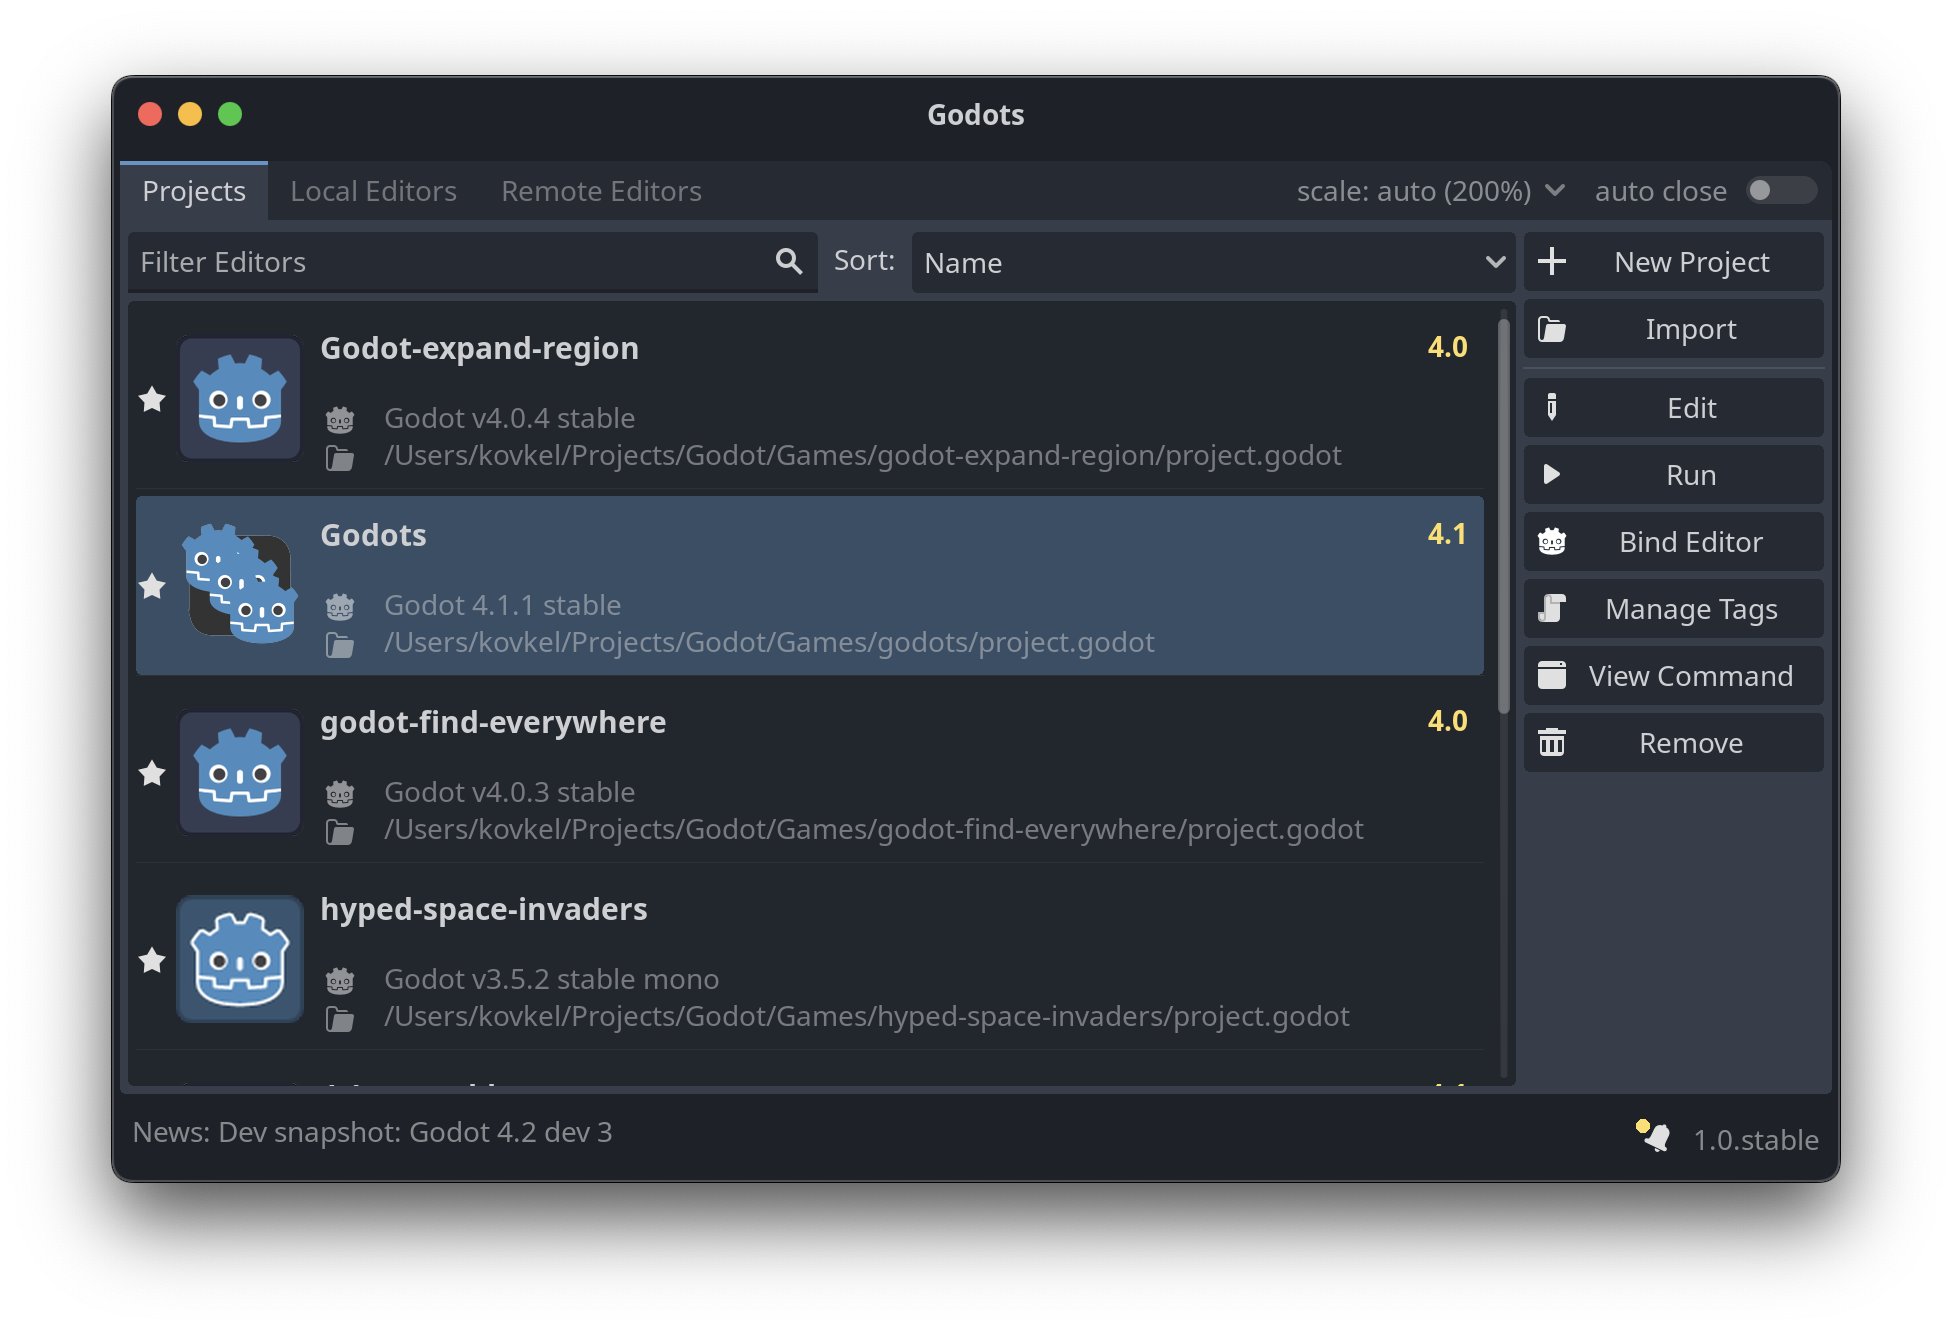
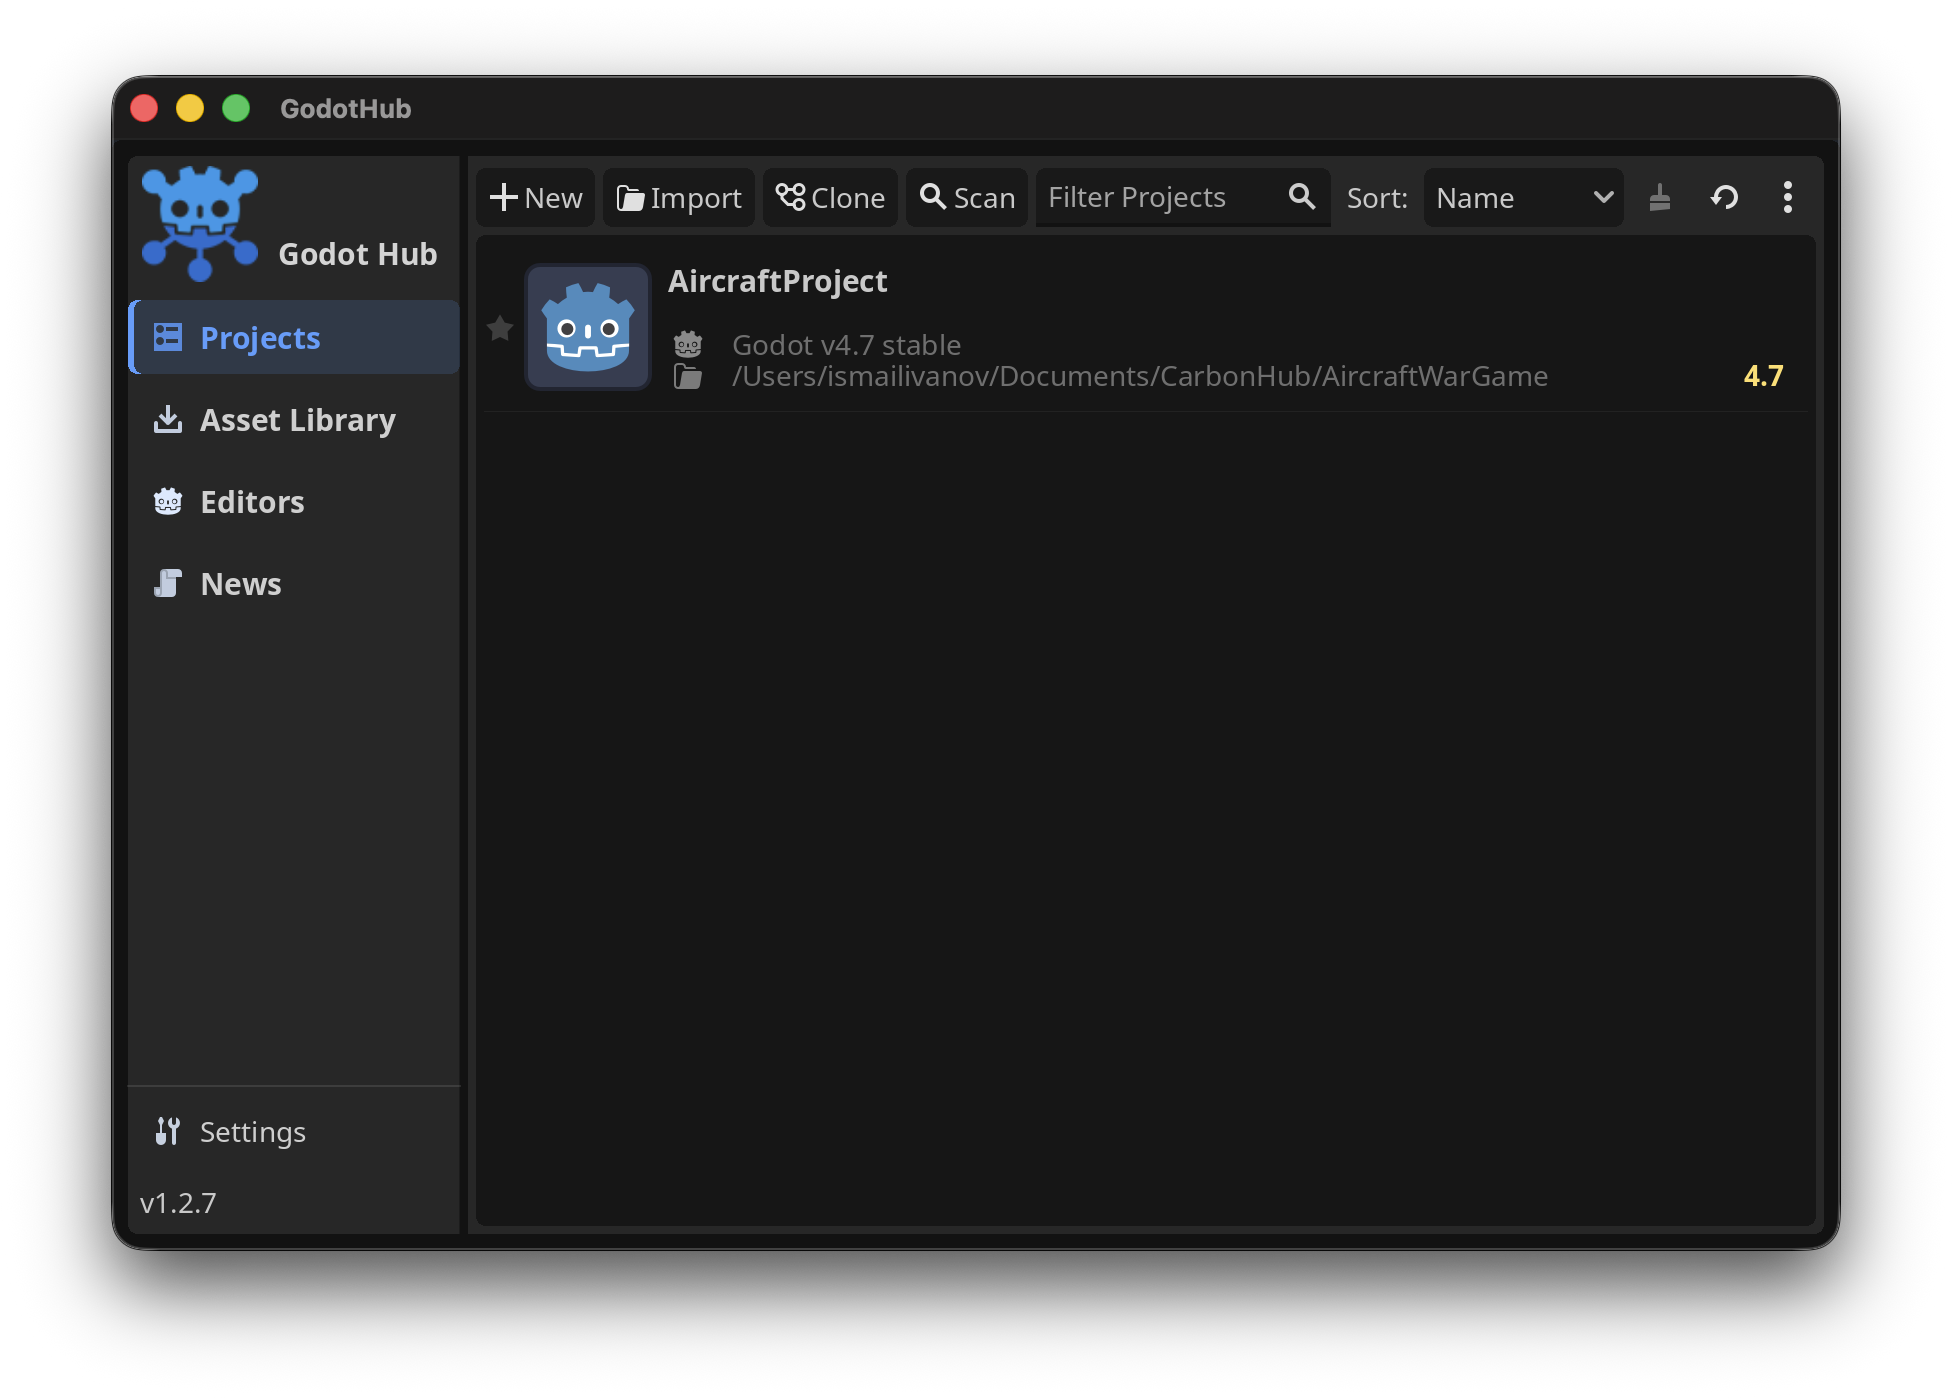
Modernize the README (#24)
* Modernize the README

* Add project support link

diff --git a/README.md b/README.md
@@ -1,98 +1,107 @@
-# Godot Hub
-
-Manage Godot Engine versions and projects from one desktop app. Download editors, organize projects, and switch versions fast.
-
-This fork builds on [MakovWait/godots](https://github.com/MakovWait/godots) by Maxim Kovkel. Maintained by [ismailivanov](https://github.com/ismailivanov).
-
 <p align="center">
-<img width="1202" height="735" alt="image" src="https://github.com/user-attachments/assets/4301b177-89d3-45c0-8488-45c1000f46fb" />
+  <img src="assets/logo/logo.svg" width="112" alt="Godot Hub logo">
 </p>
 
-## Installation
+<h1 align="center">Godot Hub</h1>
 
-Download from [Latest Releases](https://github.com/ismailivanov/godot-hub/releases). Pick your platform:
+<p align="center">
+  Your Godot editors, projects, and community news — together in one place.
+</p>
+
+<p align="center">
+  <a href="https://github.com/ismailivanov/godot-hub/releases/latest"><img alt="Latest release" src="https://img.shields.io/github/v/release/ismailivanov/godot-hub?style=flat-square&color=478cbf"></a>
+  <img alt="Windows, macOS, and Linux" src="https://img.shields.io/badge/platform-Windows%20%7C%20macOS%20%7C%20Linux-478cbf?style=flat-square">
+  <a href="LICENSE"><img alt="MIT License" src="https://img.shields.io/badge/license-MIT-478cbf?style=flat-square"></a>
+</p>
+
+<p align="center">
+  <a href="https://github.com/ismailivanov/godot-hub/releases/latest"><strong>Download Godot Hub</strong></a>
+  &nbsp;&nbsp;
+  <a href="https://buymeacoffee.com/carbon06"><img alt="Support Godot Hub on Buy Me a Coffee" src="https://img.shields.io/badge/Support-Buy%20me%20a%20coffee-FFDD00?style=flat-square&logo=buymeacoffee&logoColor=000000"></a>
+</p>
+
+![Godot Hub project library](.github/assets/screenshot1.png)
+
+Godot Hub takes care of the repetitive parts of working with Godot. Keep multiple editor versions installed, match projects with the right editor, and catch up on Godot news without jumping between folders and browser tabs.
+
+## What you can do
+
+- Install stable, preview, and custom Godot editor builds side by side.
+- Import, organize, search, and launch all your projects from one library.
+- Keep each project connected to the Godot version it needs.
+- Browse the Asset Library and follow official Godot news.
+- Update Godot Hub directly from the app on Windows, macOS, and AppImage installs.
+- Use the desktop app or control it from the command line.
+
+## Get started
+
+Download the latest version from the [Releases page](https://github.com/ismailivanov/godot-hub/releases/latest), then follow the short guide for your platform.
 
 ### Windows
-1. Download `GodotHub-Windows.zip`.
-2. Extract and run the executable.
+
+Download `GodotHub-Windows.zip`, extract it, and open `GodotHub.exe`.
+
+### macOS
+
+Download `GodotHub-macOS.zip`, extract it, and move **GodotHub.app** into your **Applications** folder.
+
+Godot Hub is not code-signed yet. If macOS blocks it, run this once in Terminal:
+
+```sh
+sudo xattr -r -d com.apple.quarantine "/Applications/GodotHub.app"
+```
 
 ### Linux
 
-**AppImage (recommended portable download):**
-1. Download `GodotHub-x86_64.AppImage`.
-2. Make it executable: `chmod +x GodotHub-x86_64.AppImage`.
-3. Run it. Future updates replace and reopen the same AppImage automatically.
+For a portable install, download `GodotHub-x86_64.AppImage`, make it executable, and open it:
 
-**Manual install:**
-1. Download `GodotHub-Linux.zip`.
-2. Extract and run the binary.
-
-**Arch Linux (AUR):**
 ```sh
-yay -S godot-hub-bin
+chmod +x GodotHub-x86_64.AppImage
+./GodotHub-x86_64.AppImage
 ```
 
-### macOS
-1. Download `GodotHub-macOS.zip` and extract.
-2. Move **GodotHub.app** to `/Applications`.
-3. If macOS blocks the app, run:
-   ```sh
-   sudo xattr -r -d com.apple.quarantine "/Applications/GodotHub.app"
-   ```
+Arch Linux users can install the [AUR package](https://aur.archlinux.org/packages/godot-hub-bin):
 
----
+```sh
+paru -S godot-hub-bin
+```
 
-## Features
+Prefer a regular executable? Download `GodotHub-Linux.zip`, extract it, and run `GodotHub.x86_64`.
 
-### Editor Management
-- Browse and download Godot releases
-- Run multiple Godot versions side-by-side
-- Import custom local editor binaries
-<img width="1202" height="735" alt="image" src="https://github.com/user-attachments/assets/f5979436-6c28-45bd-9030-659c9c7566c9" />
+## Made for everyday Godot work
 
+### Keep your editors under control
 
-### Project Management
-- Add, import, organize, and launch projects
-- Lock projects to specific Godot versions
-- Drag and drop `project.godot` files or folders
+Download the latest stable Godot release in one click, keep older or preview versions nearby, and import custom editor builds whenever you need them.
 
-### News Feed
-- Read Godot news with thumbnail previews
-- See unread articles at a glance (red dot indicator)
-- Search articles by title
-<img width="1202" height="735" alt="image" src="https://github.com/user-attachments/assets/38ee2865-63fa-4676-bd14-cb071d0da845" />
+![Godot Hub editor manager](.github/assets/screenshot2.png)
 
+### Find every project quickly
 
-### Modern Interface
-- Redesigned sidebar for faster navigation
-- Updated theme and app icon
-- Sharp visuals on HiDPI screens
+Create, clone, import, scan, search, and sort projects from one screen. You can also drop a `project.godot` file or project folder onto Godot Hub to import it.
 
-### Linux Desktop Integration
-- Auto-creates `.desktop` entries in `~/.local/share/applications`
-- Cleans up entries when you delete editors
-- Updates entries when you rename editors
-- Uses custom PNG icons or falls back to system theme
+### Stay close to the community
 
-### CLI Support
-- Control Godot Hub from your terminal
-- See [CLI Features](.github/assets/FEATURES.md#cli) for commands
+Read official Godot news with thumbnails, search by title, and see when something new has been published.
 
----
+![Godot Hub news feed](.github/assets/screenshot3.png)
 
-## Changes From Upstream
+## Updates that fit your install
 
-| Feature | Status |
-|---|---|
-| New Layout & Visual Identity | Added |
-| News tab with RSS and thumbnails | Added |
-| Unread badge on News | Added |
-| Linux `.desktop` management | Added |
-| Update button | Improved |
-| Editor install screen | Improved |
+- **Windows and macOS:** Godot Hub downloads the new version, replaces the old one, and reopens automatically.
+- **AppImage:** the current AppImage is replaced in place, then the new version starts.
+- **Arch Linux:** update notifications hand the upgrade back to your AUR helper.
 
+## Command line
 
----
+Godot Hub also includes commands for opening projects and managing editors from a terminal. See the [CLI guide](.github/assets/FEATURES.md#cli) for the full list.
+
+## About this project
+
+Godot Hub is built on [MakovWait/godots](https://github.com/MakovWait/godots), originally created by Maxim Kovkel, and is maintained by [ismailivanov](https://github.com/ismailivanov).
+
+Found a bug or have an idea? [Open an issue](https://github.com/ismailivanov/godot-hub/issues) — clear reports and small improvements are always welcome.
 
 ## License
-MIT License. See `LICENSE` file.
+
+Godot Hub is available under the [MIT License](LICENSE).